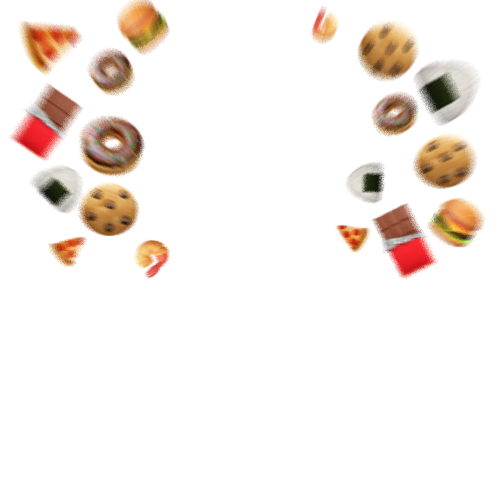
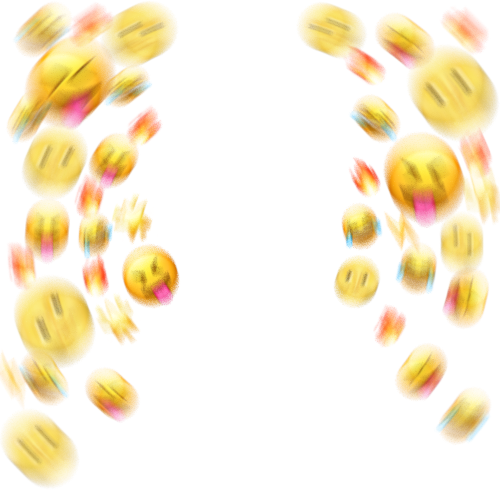
add more filter

diff --git a/run.py b/run.py
@@ -21,6 +21,7 @@ CORS(my_awesome_app)
 def index():
 	
 	if request.method == 'GET':
+            filter_img("dimya.jpg")
             return "hahsdhashd"
 			
 
@@ -48,11 +49,14 @@ def index():
             save(url,filename)
             filter_img(filename)
             
-            url_img = "https://whatsapp-filter.herokuapp.com/static/img/"+filename  
-            
-            # # SendMessage Ke ChatApi
-            if data['fromMe'] == False:
-                r = requests.post(wa, data = {"phone": target,"body": url_img,"filename" : filename})
+            caption = ['❤💙💚💛💜','😂😂😂😂😂','🌚🌚😁😂😎']
+            for i in range(1,4):
+                url_img = "https://whatsapp-filter.herokuapp.com/static/img/"+str(i)+"_"+filename  
+                
+                # # SendMessage Ke ChatApi
+                if data['fromMe'] == False:
+                    r = requests.post(wa, data = {"phone": target,"body": url_img,"filename" : filename,"caption":caption[i-1] })
+                
             return '{"type": "chat","body": "Mohon tunggu sebentar ya 🤖"}'
 
 if __name__ == '__main__':

diff --git a/modules/filter.py b/modules/filter.py
@@ -12,23 +12,24 @@ from skimage.transform import resize
 
 
 def filter_img(filename):
-    image_raw = io.imread("static/raw/"+filename)
-    emoji     = io.imread("static/filter/filter.png")
+    for i in range(1,4):
+        image_raw = io.imread("static/raw/"+filename)
+        emoji     = io.imread("static/filter/filter_download_{}.png".format(i))
 
-    image = resize(image_raw, (500, 500),anti_aliasing=True)
-    
+        image = resize(image_raw, (500, 500),anti_aliasing=True)
+        
 
-    # image = image.astype('float')/255.
-    emoji = emoji.astype('float')/255.
-
-
-    mask = np.stack([emoji[:,:,3] for _ in range(3)], axis = 2)
-
-    inv_mask = 1. - mask
-    result = image * inv_mask + emoji[:,:,:3] * mask
+        # image = image.astype('float')/255.
+        emoji = emoji.astype('float')/255.
 
 
-    plt.imsave("static/img/"+filename,result)
+        mask = np.stack([emoji[:,:,3] for _ in range(3)], axis = 2)
+
+        inv_mask = 1. - mask
+        result = image * inv_mask + emoji[:,:,:3] * mask
+
+
+        plt.imsave("static/img/"+str(i)+"_"+filename,result)
 
 
 
